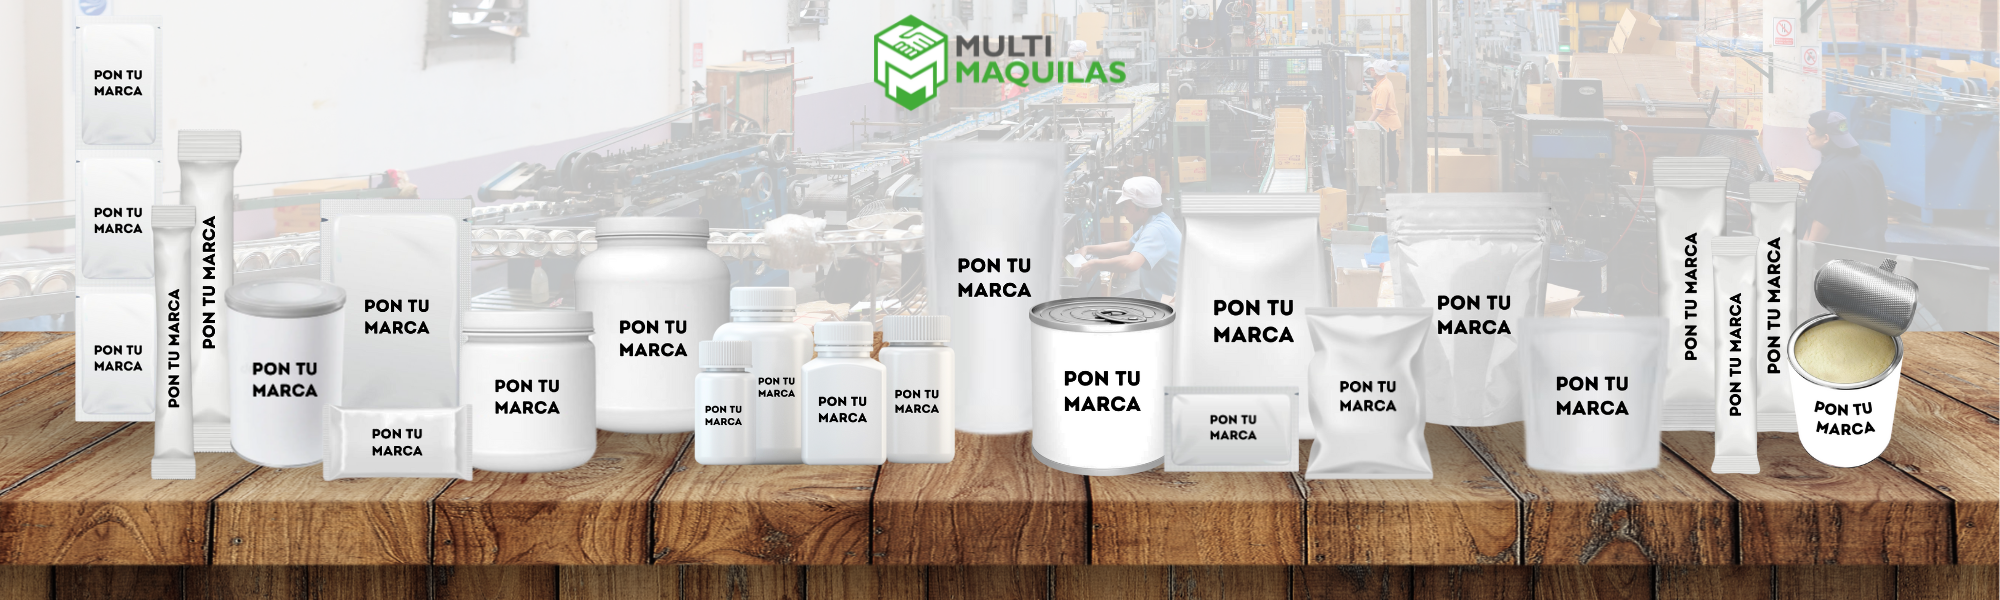
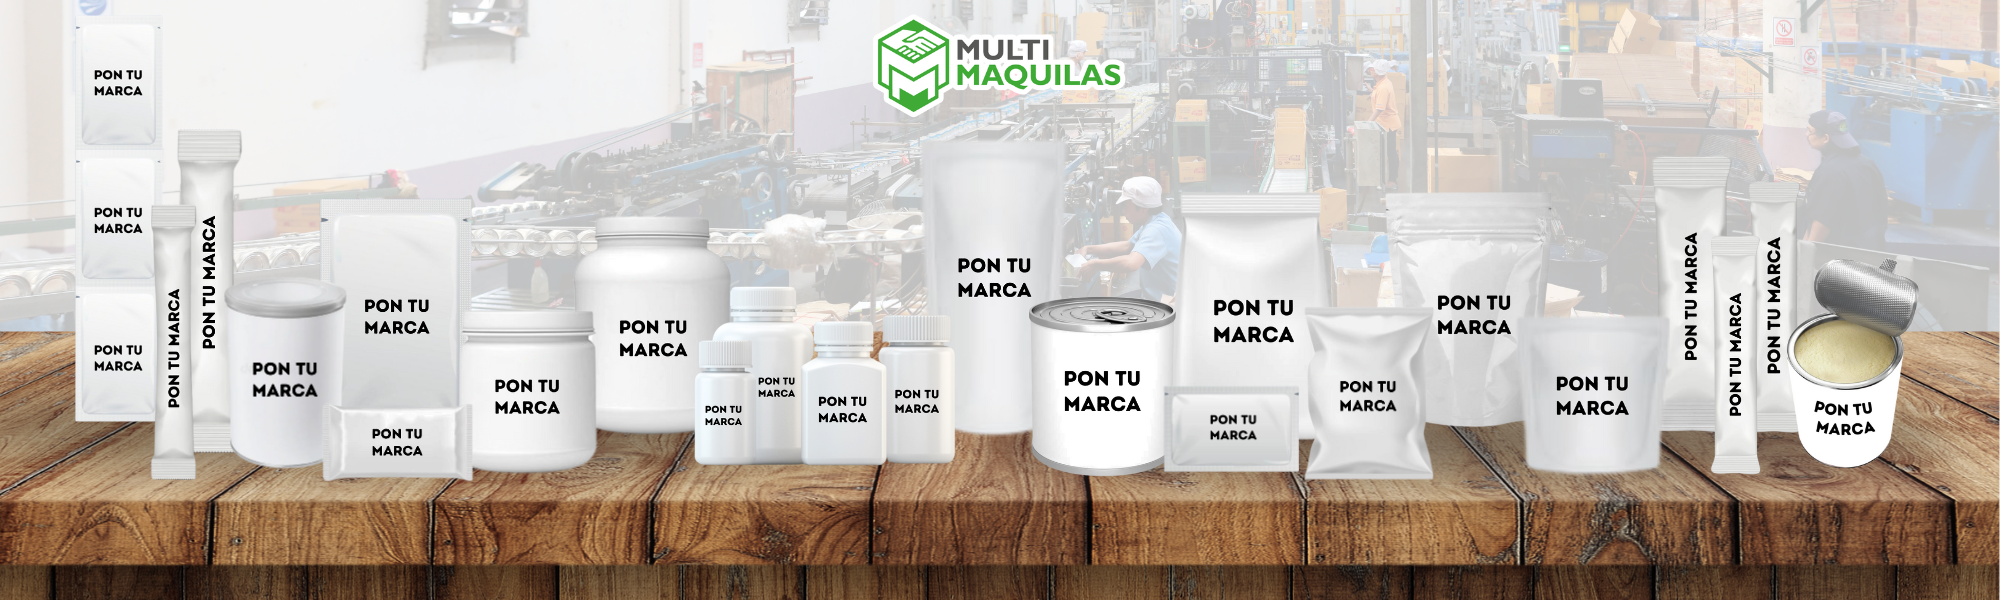
Update 2.0

Changed region(s): [[0.434, 0.03, 0.589, 0.21]]

diff --git a/servicios/acondicionamiento.html b/servicios/acondicionamiento.html
@@ -207,7 +207,7 @@
             <div class="flex flex-column">
                 <div class="img-logo">
                     <a href="../index.html">
-                        <img src="../img/img-inicio/logo-multi-maquilas.png" alt="Logo Multi-Maquila">
+                        <img src="../img/img-inicio/logo-multi-maquilas-2.png" alt="Logo Multi-Maquila">
                     </a>
                 </div>
                 <div class="flex gappx5 red">

diff --git a/servicios/armado-ofertas.html b/servicios/armado-ofertas.html
@@ -181,7 +181,7 @@
             <div class="flex flex-column">
                 <div class="img-logo">
                     <a href="../index.html">
-                        <img src="../img/img-inicio/logo-multi-maquilas.png" alt="Logo Multi-Maquila">
+                        <img src="../img/img-inicio/logo-multi-maquilas-2.png" alt="Logo Multi-Maquila">
                     </a>
                 </div>
                 <div class="flex gappx5 red">

diff --git a/servicios/asesoria-contratados.html b/servicios/asesoria-contratados.html
@@ -207,7 +207,7 @@
             <div class="flex flex-column">
                 <div class="img-logo">
                     <a href="../index.html">
-                        <img src="../img/img-inicio/logo-multi-maquilas.png" alt="Logo Multi-Maquila">
+                        <img src="../img/img-inicio/logo-multi-maquilas-2.png" alt="Logo Multi-Maquila">
                     </a>
                 </div>
                 <div class="flex gappx5 red">

diff --git a/servicios/codificado.html b/servicios/codificado.html
@@ -181,7 +181,7 @@
             <div class="flex flex-column">
                 <div class="img-logo">
                     <a href="../index.html">
-                        <img src="../img/img-inicio/logo-multi-maquilas.png" alt="Logo Multi-Maquila">
+                        <img src="../img/img-inicio/logo-multi-maquilas-2.png" alt="Logo Multi-Maquila">
                     </a>
                 </div>
                 <div class="flex gappx5 red">

diff --git a/servicios/contratos-abastecimiento.html b/servicios/contratos-abastecimiento.html
@@ -194,7 +194,7 @@
             <div class="flex flex-column">
                 <div class="img-logo">
                     <a href="../index.html">
-                        <img src="../img/img-inicio/logo-multi-maquilas.png" alt="Logo Multi-Maquila">
+                        <img src="../img/img-inicio/logo-multi-maquilas-2.png" alt="Logo Multi-Maquila">
                     </a>
                 </div>
                 <div class="flex gappx5 red">

diff --git a/servicios/diseno-etiquetas.html b/servicios/diseno-etiquetas.html
@@ -194,7 +194,7 @@
             <div class="flex flex-column">
                 <div class="img-logo">
                     <a href="../index.html">
-                        <img src="../img/img-inicio/logo-multi-maquilas.png" alt="Logo Multi-Maquila">
+                        <img src="../img/img-inicio/logo-multi-maquilas-2.png" alt="Logo Multi-Maquila">
                     </a>
                 </div>
                 <div class="flex gappx5 red">

diff --git a/servicios/embalaje.html b/servicios/embalaje.html
@@ -181,7 +181,7 @@
             <div class="flex flex-column">
                 <div class="img-logo">
                     <a href="../index.html">
-                        <img src="../img/img-inicio/logo-multi-maquilas.png" alt="Logo Multi-Maquila">
+                        <img src="../img/img-inicio/logo-multi-maquilas-2.png" alt="Logo Multi-Maquila">
                     </a>
                 </div>
                 <div class="flex gappx5 red">

diff --git a/servicios/embolsado.html b/servicios/embolsado.html
@@ -207,7 +207,7 @@
             <div class="flex flex-column">
                 <div class="img-logo">
                     <a href="../index.html">
-                        <img src="../img/img-inicio/logo-multi-maquilas.png" alt="Logo Multi-Maquila">
+                        <img src="../img/img-inicio/logo-multi-maquilas-2.png" alt="Logo Multi-Maquila">
                     </a>
                 </div>
                 <div class="flex gappx5 red">

diff --git a/servicios/empaquetado.html b/servicios/empaquetado.html
@@ -207,7 +207,7 @@
             <div class="flex flex-column">
                 <div class="img-logo">
                     <a href="../index.html">
-                        <img src="../img/img-inicio/logo-multi-maquilas.png" alt="Logo Multi-Maquila">
+                        <img src="../img/img-inicio/logo-multi-maquilas-2.png" alt="Logo Multi-Maquila">
                     </a>
                 </div>
                 <div class="flex gappx5 red">

diff --git a/servicios/encajillado.html b/servicios/encajillado.html
@@ -207,7 +207,7 @@
             <div class="flex flex-column">
                 <div class="img-logo">
                     <a href="../index.html">
-                        <img src="../img/img-inicio/logo-multi-maquilas.png" alt="Logo Multi-Maquila">
+                        <img src="../img/img-inicio/logo-multi-maquilas-2.png" alt="Logo Multi-Maquila">
                     </a>
                 </div>
                 <div class="flex gappx5 red">

diff --git a/servicios/enmangado.html b/servicios/enmangado.html
@@ -181,7 +181,7 @@
             <div class="flex flex-column">
                 <div class="img-logo">
                     <a href="../index.html">
-                        <img src="../img/img-inicio/logo-multi-maquilas.png" alt="Logo Multi-Maquila">
+                        <img src="../img/img-inicio/logo-multi-maquilas-2.png" alt="Logo Multi-Maquila">
                     </a>
                 </div>
                 <div class="flex gappx5 red">

diff --git a/servicios/etiquetado.html b/servicios/etiquetado.html
@@ -194,7 +194,7 @@
             <div class="flex flex-column">
                 <div class="img-logo">
                     <a href="../index.html">
-                        <img src="../img/img-inicio/logo-multi-maquilas.png" alt="Logo Multi-Maquila">
+                        <img src="../img/img-inicio/logo-multi-maquilas-2.png" alt="Logo Multi-Maquila">
                     </a>
                 </div>
                 <div class="flex gappx5 red">
